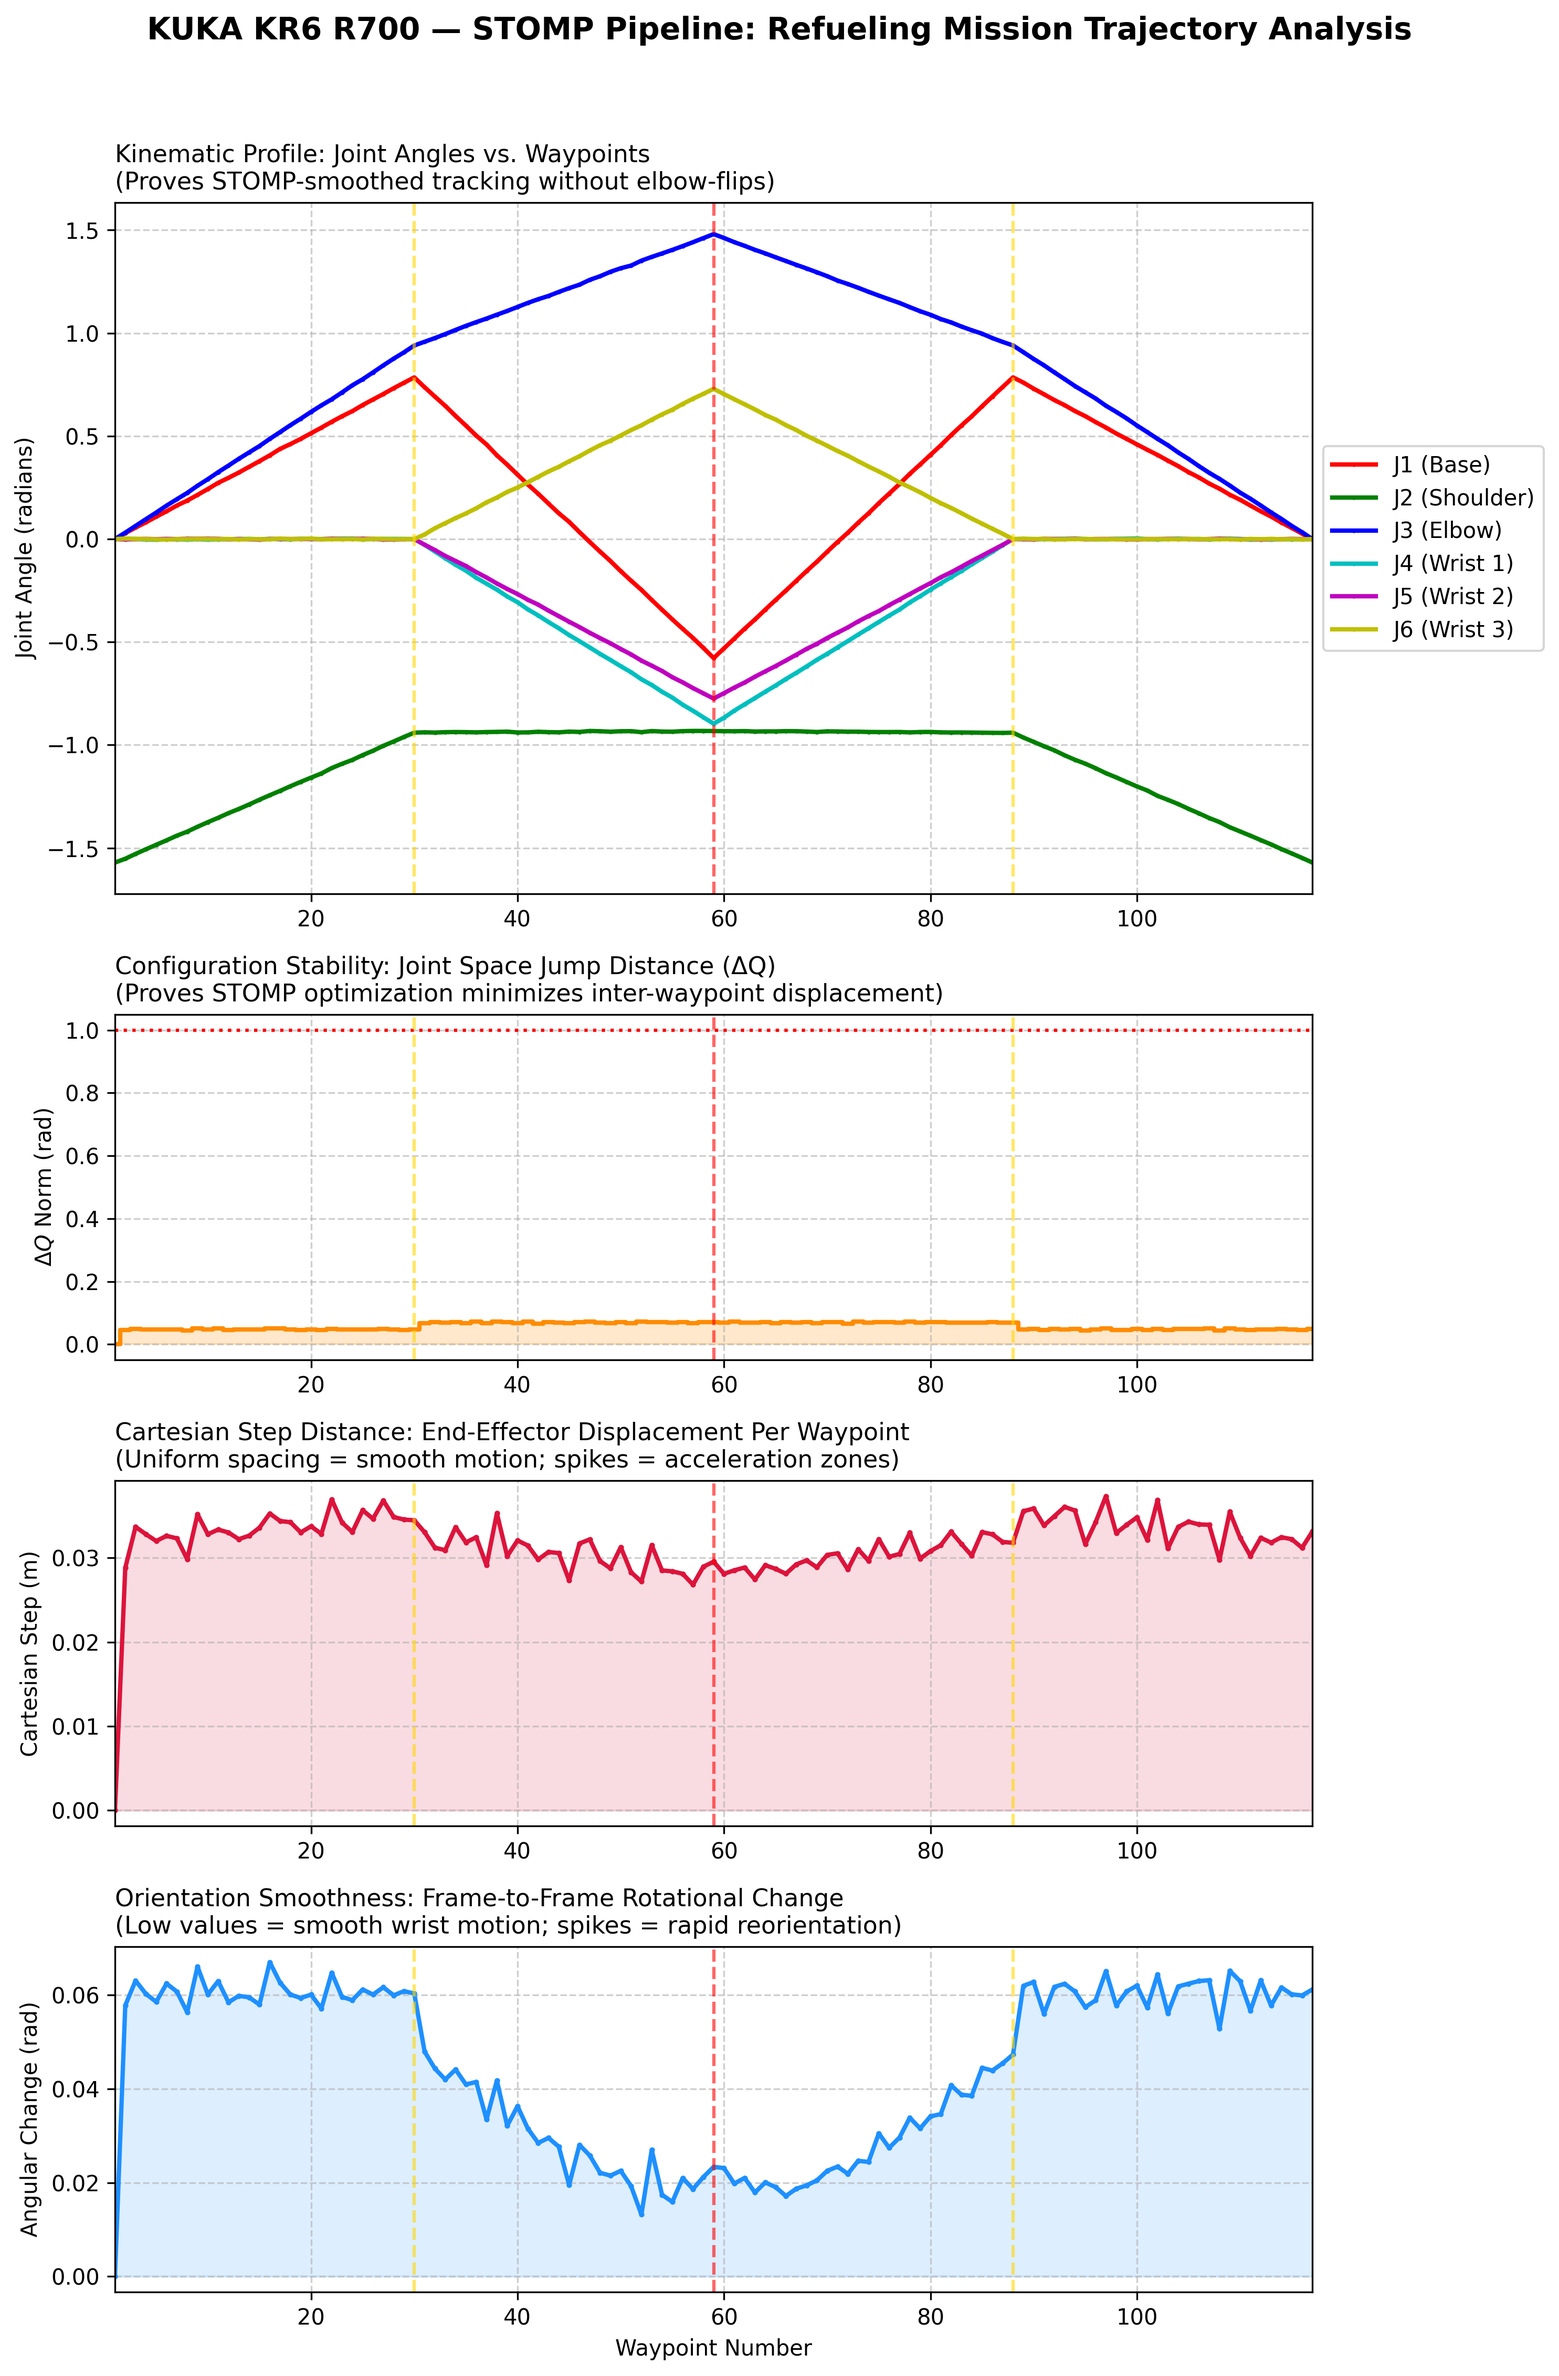
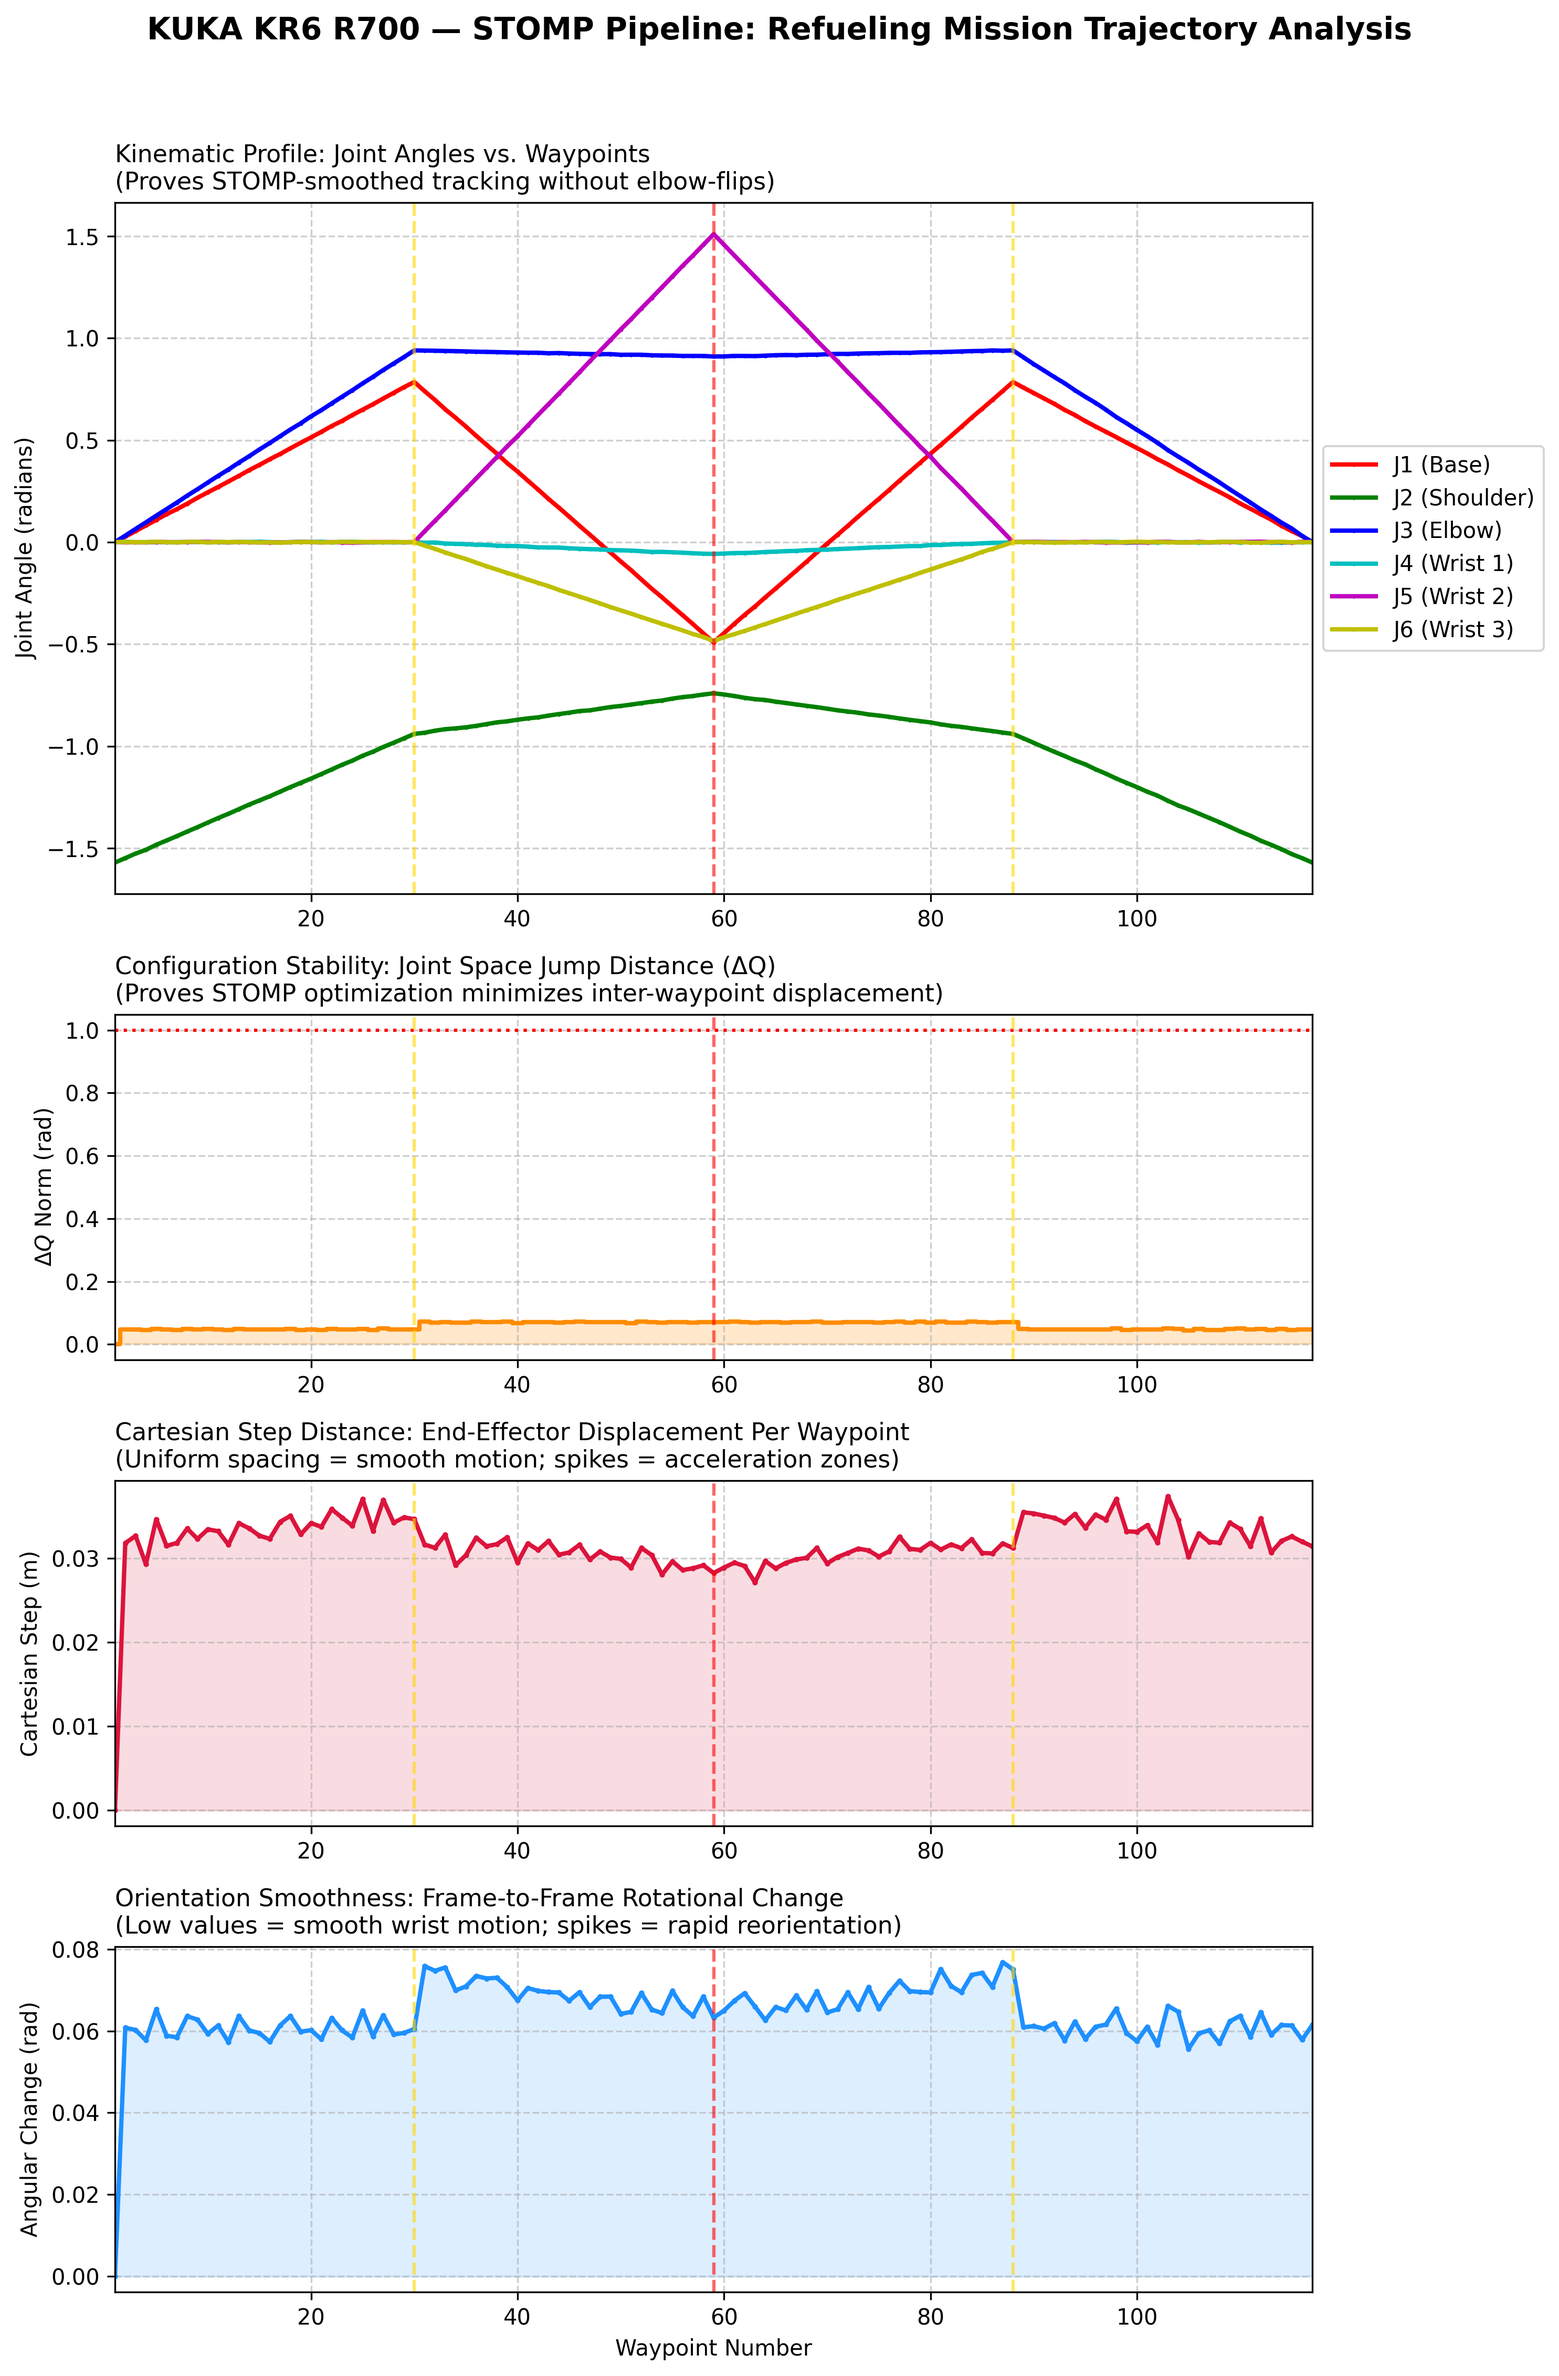
feat: Dynamic approach orientation for RED target (wave-style tangent pitch)

diff --git a/test_full_pipeline.py b/test_full_pipeline.py
@@ -20,7 +20,7 @@ import argparse
 import numpy as np
 
 sys.path.insert(0, "kuka_refuel_ws/src/kuka_kr6_gazebo/scripts")
-from ik_geometric import IK_spherical_2_parallel, fwd_kinematics, KIN_KR6_R700
+from ik_geometric import IK_spherical_2_parallel, fwd_kinematics, KIN_KR6_R700, rot
 from stomp_planner import stomp_optimize
 
 # ── Official KUKA KR6 R700-2 Joint Limits (from URDF) ───────────
@@ -37,8 +37,25 @@ JOINT_LIMITS = np.array([
 Q_HOME = np.array([0.0, -np.pi/2, 0.0, 0.0, 0.0, 0.0])       # REST position (Straight Up)
 Q_NOZZLE = np.array([0.785, -0.94, 0.94, 0.0, 0.0, 0.0])     # YELLOW dot (Tall, Z=0.696m on right)
 REFUEL_TARGET_XYZ = np.array([0.55, 0.3, 0.5])              # RED dot (front-left, height=0.5m)
-REFUEL_TARGET_R = np.eye(3)                                  # Tool orientation
 DWELL_TIME = 10.0                                             # Seconds to hold at refuel position
+
+# ── Dynamic Orientation (Wave-Style Tangent Pitching) ───────────
+# Base EE orientation: tool pointing forward (same as test_ik_wave.py)
+R_START = np.array([
+    [ 0,  0,  1],
+    [ 0,  1,  0],
+    [-1,  0,  0]
+])
+
+# Compute natural approach orientation at RED based on YELLOW→RED direction
+_, P_NOZZLE_FK = fwd_kinematics(Q_NOZZLE)
+_approach_dir = REFUEL_TARGET_XYZ - P_NOZZLE_FK
+_dx = _approach_dir[0]
+_dy = _approach_dir[1]
+_dz = _approach_dir[2]
+_horiz_speed = np.hypot(_dx, _dy)
+_pitch = np.arctan2(_dz, _horiz_speed) * 0.5  # 50% damping like wave script
+REFUEL_TARGET_R = R_START @ rot(np.array([0.0, 1.0, 0.0]), -_pitch)  # Pitch along approach
 
 
 def within_joint_limits(q):
